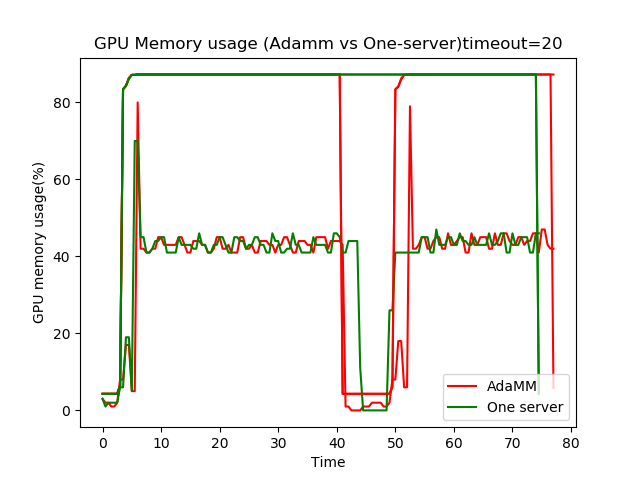
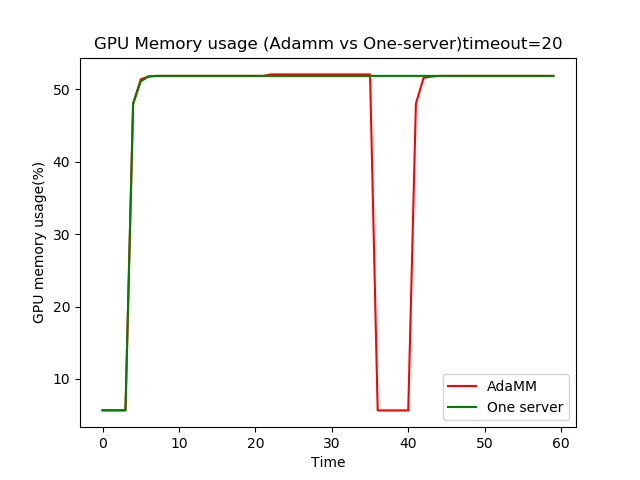
Change data

diff --git a/grpah.py b/grpah.py
@@ -36,15 +36,16 @@ def draw_pyplot(title,y_label,y_value,file_path):
     #x_value=list()
     colors=["r","g","b","c","m"]
     for i in range(len(y_value)):
-        x_value = np.arange(len(y_value[i]))/2
+        x_value = np.arange(len(y_value[i]))
         plt.xlabel("Time")
         plt.ylabel(y_label)
         plt.title(title)
         plt.plot(x_value,y_value[i],color=colors[i])
         #plt.fill_between(x_value,ymin,y_value[i])
         plt.legend(labels=("AdaMM","One server"))
+    plt.show(block=False)
     plt.savefig(file_path + title + ".png")
-    #plt.show()
+    plt.clf()
 
 
 
@@ -56,6 +57,8 @@ def draw_subplot(title,y_label,y_value):
         ax.set_xlabel("Time")
         ax.set_ylabel(y_label)
         ax.plot(x_value, y_value[i])
+    2020
+    _ETRI_가천대학교_0921
     #plt.show()
 
 def get_files(path):
@@ -68,7 +71,7 @@ def get_files(path):
 #Video3 : 총 54초 / 사람 없는 시간 2초~26초 약 34초~49초
 
 if __name__ == '__main__':
-
+    """
     for j in range(3):
         each_video_path="data/video"+str(j+1)+"/"
         each_graph_path="data/graph/video"+str(j+1)+"/"
@@ -83,4 +86,22 @@ if __name__ == '__main__':
             draw_pyplot("GPU Memory usage (Adamm vs One-server)"+file_list[i][16:26],"GPU memory usage(%)",compare_memory,each_graph_path)
 
             draw_pyplot("GPU Utils (Adamm vs One-server)"+file_list[i][16:26],"GPU utils usage(%)",compare_usage,each_graph_path)
+    """
+    qdrop=[897,896,894]
+    endtime=[61,61,61]
+    x_labe=["10","20","30"]
+
+    flg, ax = plt.subplots()
+    ax.set_title("Frame drop (size of queue :40)")
+    ax.set_xlabel("Timeout")
+    ax.set_ylabel("number of frame drop")
+    ax.plot(x_labe,qdrop)
+    plt.show(block=False)
+    plt.savefig("data/graph/graph3.png")
+    plt.clf()
+
+
+
+
+
 
